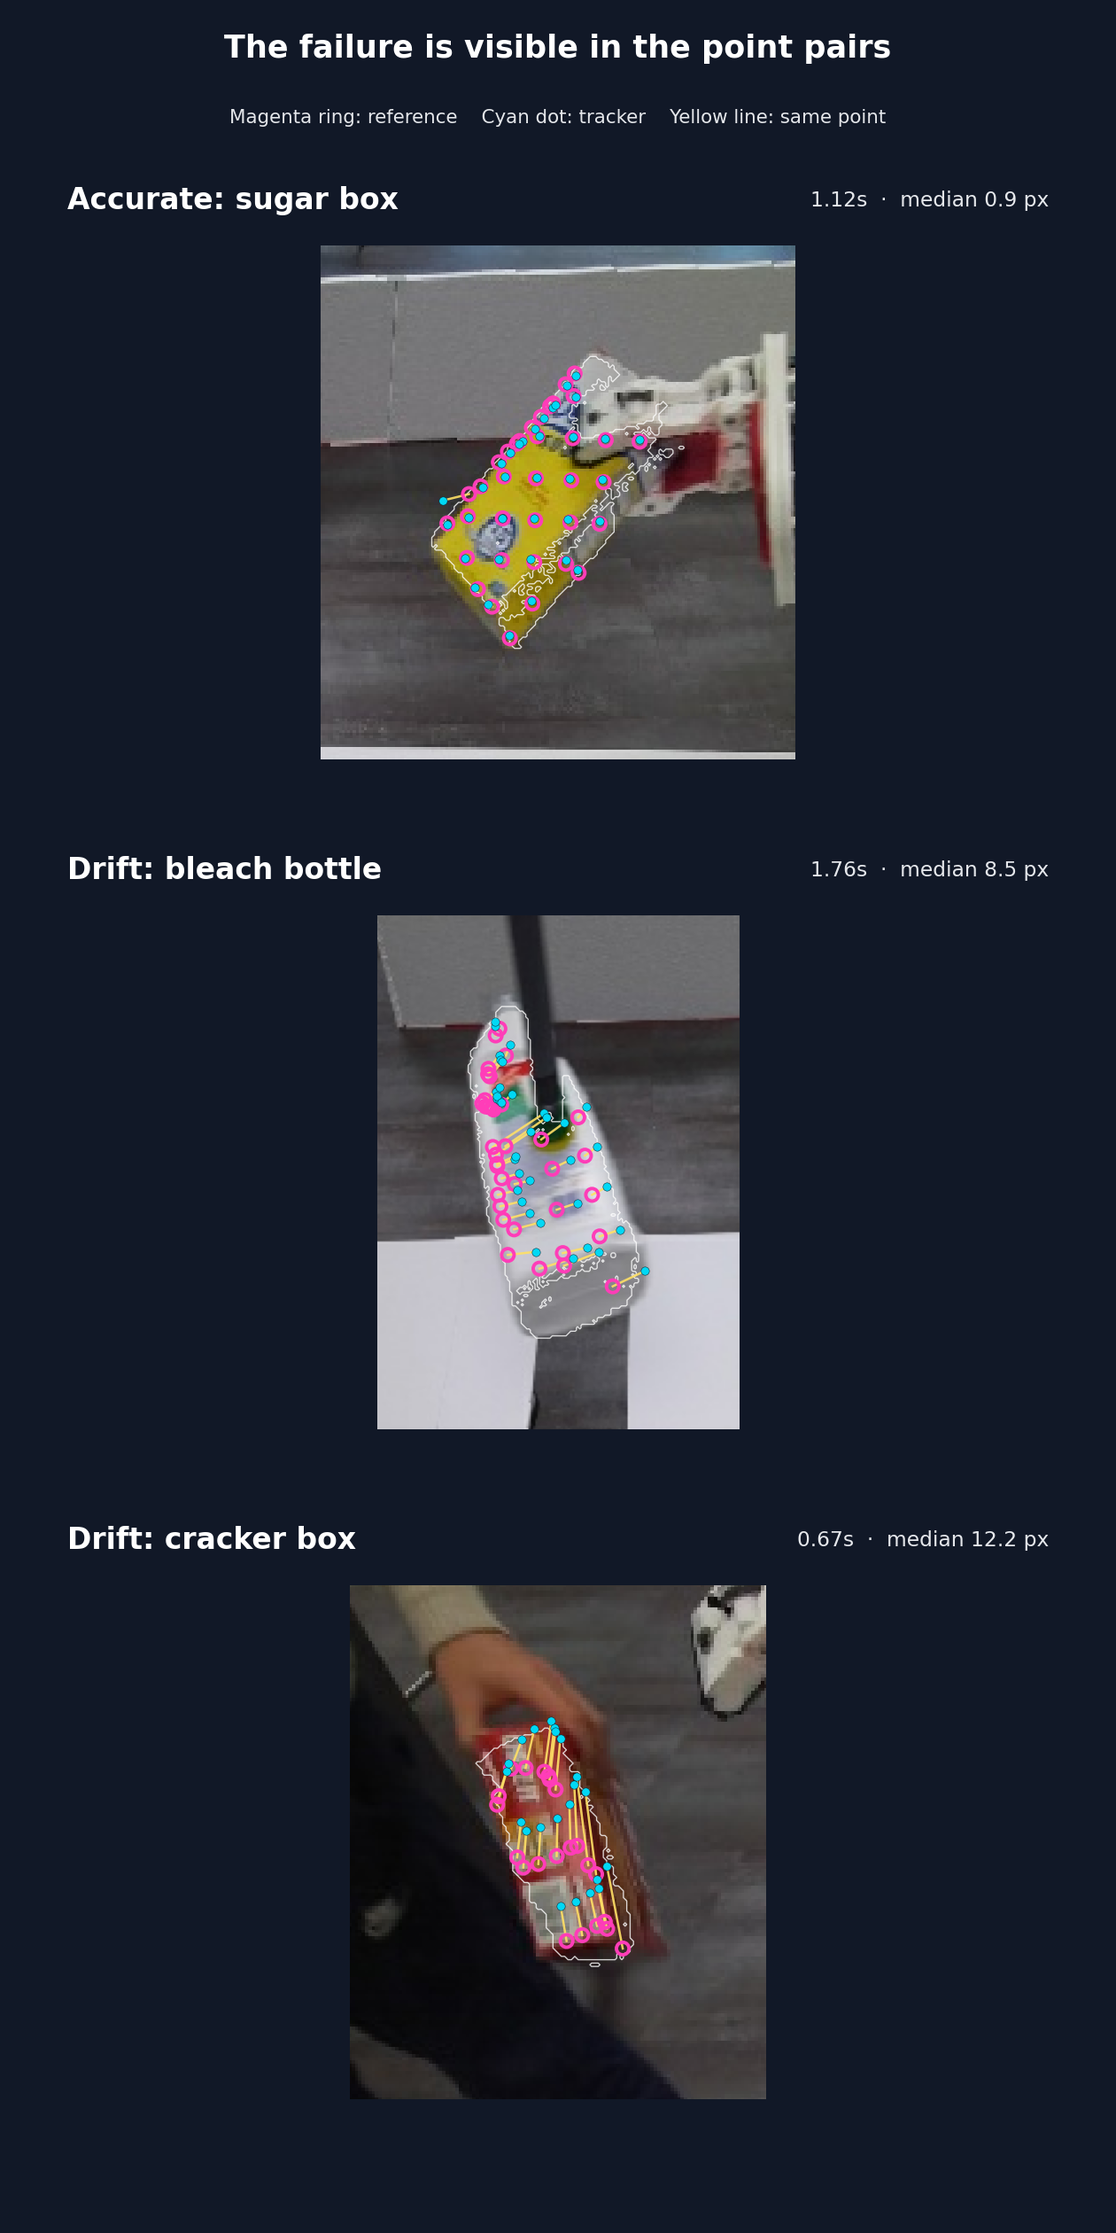
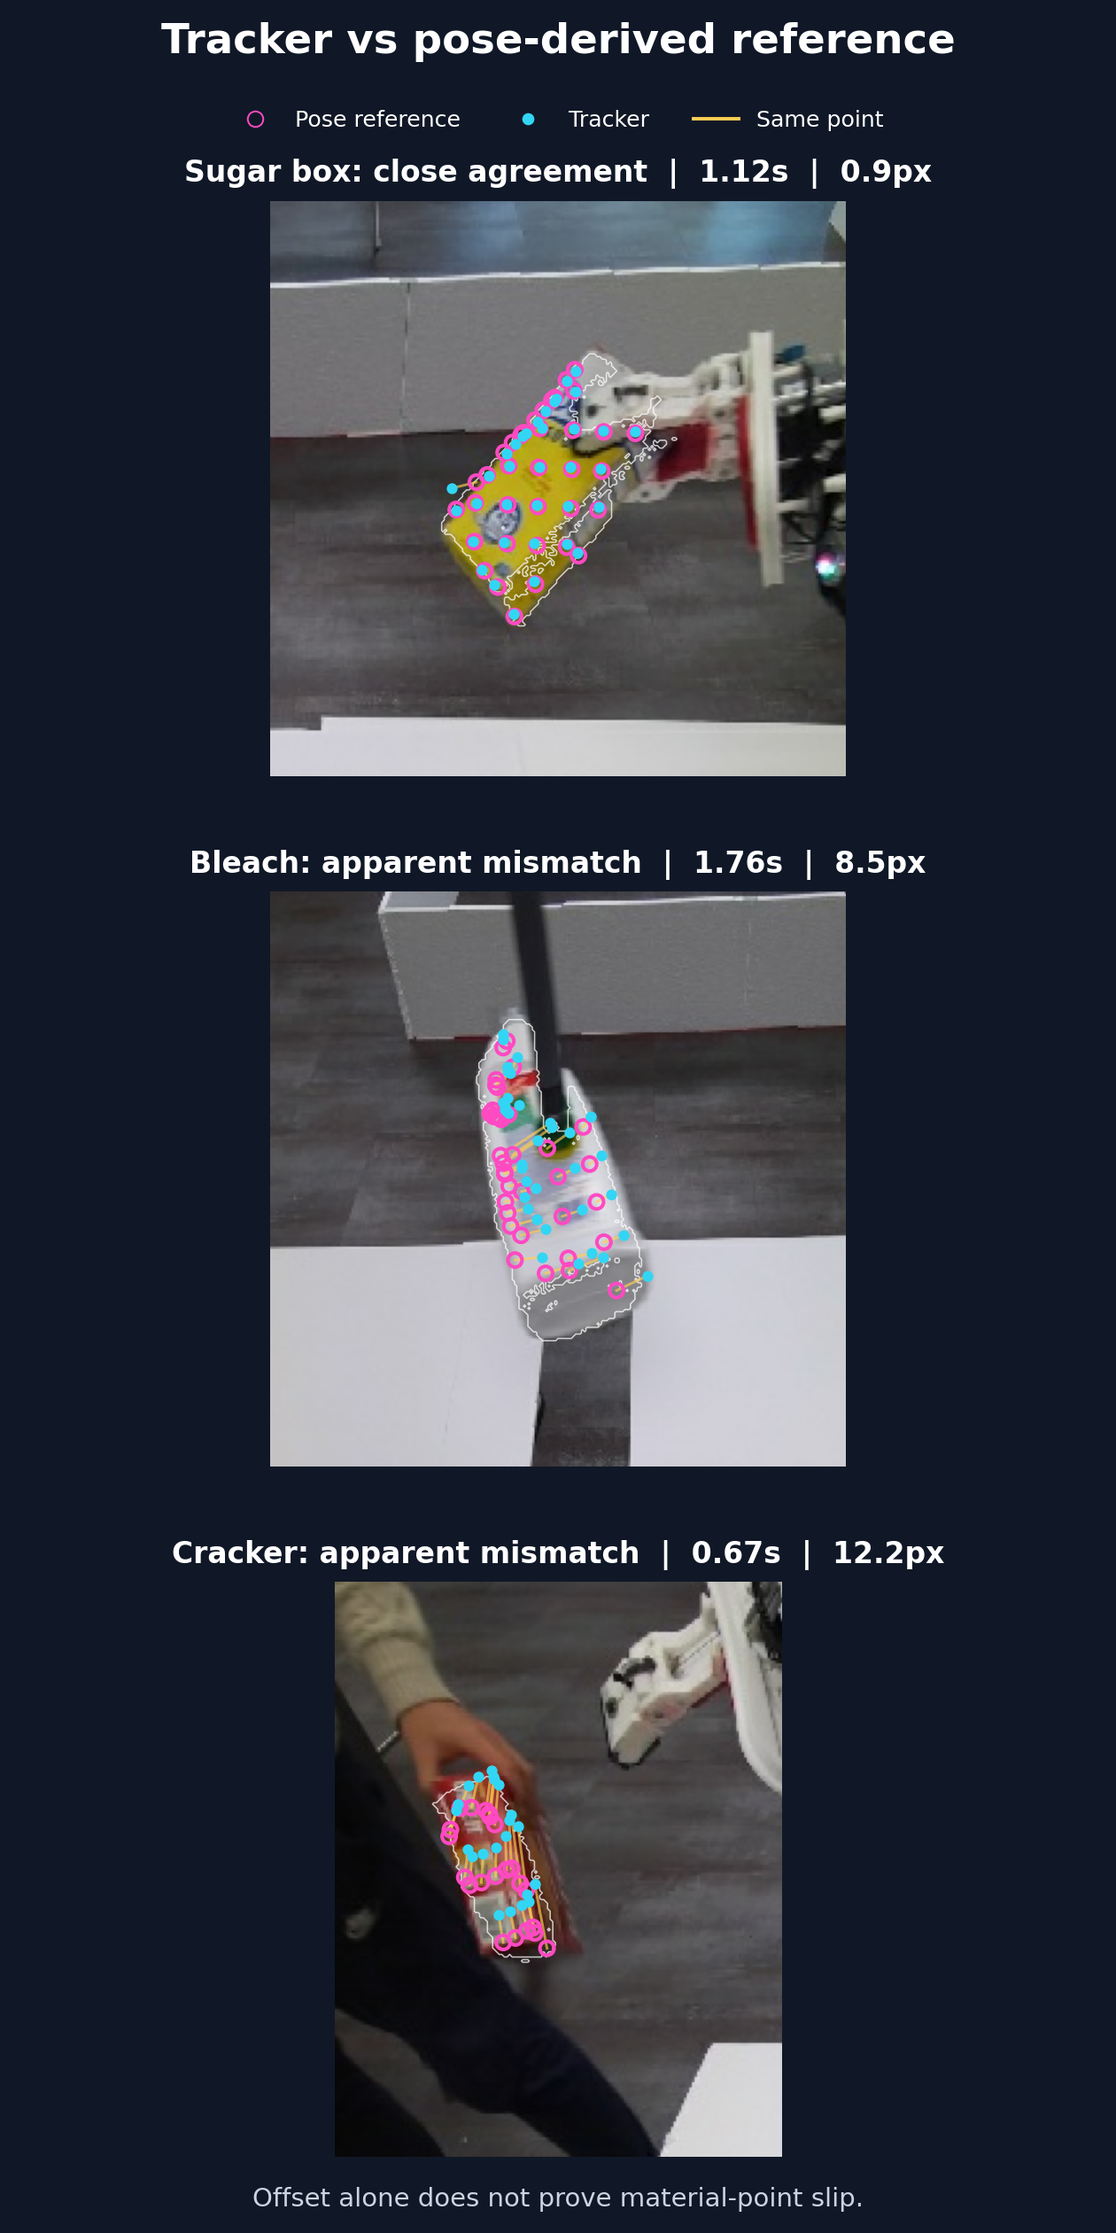
Qualify tracker failures against pose-derived references

Changed region(s): [[0.0619, 0.0, 0.8667, 0.9905], [0.0619, 0.681, 0.1238, 0.7119]]

diff --git a/docs/proofs/flash-visible-surface-benchmark/README.md b/docs/proofs/flash-visible-surface-benchmark/README.md
@@ -1,10 +1,10 @@
 # Visible-surface benchmark: first implementation
 
-This is a **development pilot**, not a decision to replace FLASH's tracker. The benchmark compares point identity before any SAM/depth/rigid-fit correction. Six 31-frame YCBInEOAT development clips and six frozen same-dataset holdout clips use pose-derived material-point references; the local 91-frame dowel rotation has no independent point labels and is visual/diagnostic evidence only. All adapters receive the same source image frames and query pixels for a clip. RGB-D candidates also receive the same aligned depth and intrinsics; RGB-only Point4D predicts its own geometry.
+This is a **development pilot**, not a decision to replace FLASH's tracker. It compares raw point predictions before any SAM/depth/rigid-fit correction. The YCBInEOAT references are projected from first-frame depth and the dataset's annotated object poses; they are **not independently annotated material-point tracks**, and pose errors can look like point-tracker drift. The local 91-frame dowel rotation has no independent point labels and is visual/diagnostic evidence only. All adapters receive the same source image frames and query pixels for a clip. RGB-D candidates also receive the same aligned depth and intrinsics; RGB-only Point4D predicts its own geometry.
 
-[Labelled mustard comparison](mustard_cotracker3_labeled.mp4) shows model points in cyan and independent pose-derived reference points in magenta. [Dowel rotation comparison](dowel_cotracker3_comparison.mp4) shows the complete 91-frame interval, including lost and drifting points. The [earlier point-frontends comparison](dowel_comparison.mp4) retains BootsTAPIR and optical flow. The thin white outline is the segmentation mask; staying inside it does **not** prove point identity.
+[Labelled mustard comparison](mustard_cotracker3_labeled.mp4) shows model points in cyan and pose-derived reference points in magenta. [Dowel rotation comparison](dowel_cotracker3_comparison.mp4) shows the complete 91-frame interval, including lost and apparently drifting points. The [earlier point-frontends comparison](dowel_comparison.mp4) retains BootsTAPIR and optical flow. The thin white outline is the segmentation mask; staying inside it does **not** prove point identity.
 
-The [phone-sized comparison video](visible_surface_phone_comparison.mp4) shows all ten point-tracker families across the moving YCBInEOAT sugar box, cracker box and hard bleach clips, followed by the local held dowel, moving yellow block and held gamepad. Three methods share each image time and query set. Magenta rings are independently labelled material-point locations on YCBInEOAT; cyan dots are raw tracker predictions. The local robot clips have no independent point labels and are explicitly visual diagnostics. The closing chart summarizes causal 2-pixel coverage on the two synthetic LSFOdyssey clips without redistributing their source imagery. Per-panel FPS is isolated adapter throughput, not FLASH's fresh-pose or motor-loop rate; full-clip methods may use future frames. The 27-second portrait MP4 is H.264/yuv420p with fast-start metadata for mobile playback.
+The [phone-sized comparison video](visible_surface_phone_comparison.mp4) shows all ten point-tracker families across the moving YCBInEOAT sugar box, cracker box and hard bleach clips, followed by the local held dowel, moving yellow block and held gamepad. Three methods share each image time and query set. Magenta rings on YCBInEOAT are **pose-derived reference projections**, not independently labelled material points; cyan dots are raw tracker predictions. The local robot clips have no independent point labels and are explicitly visual diagnostics. The closing chart summarizes causal 2-pixel coverage on the two synthetic LSFOdyssey clips without redistributing their source imagery. Per-panel FPS is isolated adapter throughput, not FLASH's fresh-pose or motor-loop rate; full-clip methods may use future frames. The 27-second portrait MP4 is H.264/yuv420p with fast-start metadata for mobile playback.
 
 [![Portrait comparison preview](visible_surface_phone_poster.jpg)](visible_surface_phone_comparison.mp4)
 
@@ -14,9 +14,9 @@ A separate [integrated timing probe](INTEGRATED.md) runs TAPNext with no mask, w
 
 The [nested point-budget sweep](NESTED_BUDGET.md) keeps the same initial 64 material points while tracking 64, 256 or 1,024 points on a labelled moving sugar-box clip. TAPNext's adapter rate falls from 56 to 45 fps, LiteTracker's from 64 to 53 fps, and Track-On-R's from 34 to 20 fps at 1,024 points. This is isolated all-frame inference, not the full perception rate. The first-64 accuracy columns prevent newly sampled, easier points from being mistaken for an improvement to old identities; the result is one visible object, not a point-budget recommendation.
 
-Three unused YCBInEOAT sequences have a [frozen midpoint holdout](HOLDOUT_MIDPOINT.md) and a separately frozen [motion-stratified holdout](HOLDOUT_MOTION.md); [the selection rule and source/query hashes](HOLDOUT_SPEC.md) were committed before motion-clip model scoring. The midpoint intervals contain little motion on two sequences, so their high scores are not strong evidence for moving-surface identity. On the motion intervals, mean 2-pixel coverage across the three sequences ranges from 0.104 to 0.526 across the final adapters; Point4D is the 0.104 RGB-only case. The [quality versus isolated throughput plot](motion_quality_vs_rate.png) separates causal from full-clip methods. The [moving bleach](holdout_bleach_motion.mp4), [moving cracker box](holdout_cracker_motion.mp4) and [Point4D comparison](holdout_bleach_point4d.mp4) videos show full intervals and reference points. These are internal holdouts from the same dataset, with only 29–64% of point-frames independently eligible on each moving clip. SpaTrackerV2's adapter was corrected using a source-frame contract check on this holdout, so its result is exploratory, not an untouched confirmation.
+Three unused YCBInEOAT sequences have a [frozen midpoint holdout](HOLDOUT_MIDPOINT.md) and a separately frozen [motion-stratified holdout](HOLDOUT_MOTION.md); [the selection rule and source/query hashes](HOLDOUT_SPEC.md) were committed before motion-clip model scoring. The midpoint intervals contain little motion on two sequences, so their high scores are not strong evidence for moving-surface identity. On the motion intervals, mean 2-pixel coverage against the pose-derived references ranges from 0.104 to 0.526 across the final adapters; Point4D is the 0.104 RGB-only case. The [quality versus isolated throughput plot](motion_quality_vs_rate.png) separates causal from full-clip methods. The [moving bleach](holdout_bleach_motion.mp4), [moving cracker box](holdout_cracker_motion.mp4) and [Point4D comparison](holdout_bleach_point4d.mp4) videos show full intervals and reference points. These are internal holdouts from the same dataset, with only 29–64% of point-frames eligible under the pose/mask/depth gate on each moving clip. SpaTrackerV2's adapter was corrected using a source-frame contract check on this holdout, so its result is exploratory, not an untouched confirmation.
 
-The [failure-frame comparison](failure_examples.png) shows TAPNext predictions paired with pose-derived reference points, using only points labelled visible at that instant. The sugar-box frame has 0.9 px median error; the bleach and cracker-box frames reach 8.5 and 12.2 px. Bleach still has 32 of 36 paired predictions inside the annotated object mask, yet its fitted cloud is 14 mm from the annotated motion. Cracker has 16 of 22 inside and a 28 mm fitted-cloud error. The error later falls to 3.2 px for bleach and 2.6 px for cracker, so the failures include transient within-object drift and some boundary leakage, not permanent loss of every point. The white outline is the dataset's annotated mask, not a live SAM prediction; this comparison does not isolate motion blur, occlusion, timing, or reference error as the cause.
+The [large-mismatch frames](failure_examples.png) show TAPNext predictions paired with pose-derived reference points, using only points eligible under the pose/mask/depth gate at that instant. The sugar-box frame has 0.9 px median disagreement; the bleach and cracker-box frames have 8.5 and 12.2 px. These are **disagreements with annotated object motion, not proven material-point errors**. A [one-step RGB-motion audit](REFERENCE_AUDIT.md) found that, on the worst bleach transition, TAPNext and optical flow agree within 0.42 px median while the pose-derived reference moves about 7 px differently. A similar reference jump occurs on the cracker box. This makes local reference-pose inconsistency a plausible major contributor. Some points also lie outside the annotated mask, but the image alone cannot distinguish tracker slip from reference error, occlusion and boundary uncertainty. The white outline is the dataset's annotated mask, not a live SAM prediction.
 
 A [second RGB-D source](DEXYCB.md) uses TAPIP3D's bundled 72-frame DexYCB sample with the same manually supplied first-frame mug seeds for all adapters. The [full unlabelled mug video](dexycb_mug_unlabelled.mp4) includes its heavy hand occlusion; a [second view](dexycb_mug_new_candidates.mp4) includes Point4D and SpaTrackerV2. This sample has no material-point labels or source timestamps, so it contributes visual evidence and adapter cost only. On it, TrackEverything's full-clip adapter measured 2.6 fps; LiteTracker and Track-On-R causal adapters measured 87.8 and 40.6 fps; SpaTrackerV2 and Point4D's full-clip adapters measured 7.9 and 18.4 fps. The declared 30 fps playback rate is not a measured camera rate.
 
@@ -32,7 +32,7 @@ Point4D was run with its official long-video API and full 5.4 GiB checkpoint. Th
 
 The first visual comparison exposed an adapter error: BootsTAPIR scaled queries using its default 640-pixel width before its `initialize` call learned the 848-pixel dowel camera width. Its initial median offset was 72.9 pixels. Passing the actual image dimensions before query creation reduced that offset to 1.2 pixels. All reported BootsTAPIR runs were regenerated after this correction. This is why an input/output contract check and a source-frame image review are required before comparing model quality.
 
-Reference limitations remain material. YCBInEOAT's annotated object pose transports a point seeded from the _measured_ first-frame depth; the reference point often differs from later measured depth by several millimetres. Its mask/depth visibility gate excludes unsupported points, but it does not make those labels submillimetre truth. The six development clips were chosen while adapters were built; the three midpoint and three motion intervals were frozen later from unused sequences in the **same** dataset. The one-third-second startup in the paced neural runs mostly reflects first-frame model warmup; after that they keep up with the 30 Hz local source in this short probe. These observations do not establish full-loop performance or reliability through occlusion.
+Reference limitations remain material. YCBInEOAT's annotated object pose transports a point seeded from the _measured_ first-frame depth; the reference point often differs from later measured depth by several millimetres. Its mask/depth visibility gate excludes unsupported points, but it does not validate point identity or correct local pose-label jumps. Consequently, the YCBInEOAT 2-pixel scores measure agreement with that constructed reference and cannot by themselves rank true material-point accuracy. The six development clips were chosen while adapters were built; the three midpoint and three motion intervals were frozen later from unused sequences in the **same** dataset. The one-third-second startup in the paced neural runs mostly reflects first-frame model warmup; after that they keep up with the 30 Hz local source in this short probe. These observations do not establish full-loop performance or reliability through occlusion.
 
 TAPIP3D's upstream depth-edge filter cost a median 6.45 seconds per 31-frame public clip. Across those six clips, removing it changed mean 2-pixel coverage by less than 0.001 and mean 5-mm coverage by 0.002, while median adapter throughput rose from 4.1 to 30.8 fps. On the 91-frame local dowel, filtering took 19.47 seconds and changed the mask-and-depth diagnostic by about 0.002; that diagnostic cannot prove material-point accuracy. This is a strong reason to keep the filter optional in the experiment, not yet proof that it is unnecessary on unseen sensor defects.
 
@@ -40,6 +40,6 @@ The exact-motion controls show the benchmark can detect texture dependence witho
 
 In the growth study, new queries are supplied from labelled masks rather than discovered autonomously. The first 64 points' mean 2-pixel coverage stays within 0.007 when later cohorts are added across the six development clips. The later cohorts have different visible surfaces and shorter lives, so their higher scores do not prove recovery of old identities. BootsTAPIR's median steady tracker time rises from about 15 to 27 ms after growth, while LiteTracker stays near 5 ms, TAPNext near 8 ms and Track-On-R below 19 ms. TAPIP3D's unfiltered full-clip adapter drops from about 31 to 20 fps with the larger query set. This identifies a point-budget cost, not a complete live perception rate.
 
-Run the tools from the repo root. `prepare-local` freezes source indices, queries, intrinsics and first-frame hashes; `flash_surface_ycbineoat` adds pose-derived labels. Adapters save the same `prediction.npz` fields (`frames`, `queries`, `xy`, `xyz`, `visible`, source type), per-stage timing and optional paced publication traces. `flash_surface_benchmark evaluate` checks the recorded mask/depth as a **diagnostic**, and scores accuracy only when independent labels exist. `flash_surface_report` produces equal-clip summaries; `flash_surface_render` renders the full interval with source-time pacing. Model-specific Python environments and checkpoints remain outside git. Do not mix depth lifted from the predicted pixel with native model 3D depth as though their depth residuals were comparable.
+Run the tools from the repo root. `prepare-local` freezes source indices, queries, intrinsics and first-frame hashes; `flash_surface_ycbineoat` adds pose-derived references. Adapters save the same `prediction.npz` fields (`frames`, `queries`, `xy`, `xyz`, `visible`, source type), per-stage timing and optional paced publication traces. `flash_surface_benchmark evaluate` checks the recorded mask/depth as a **diagnostic** and scores disagreement when reference tracks exist; only the LSFOdyssey clips here supply independent point-identity labels. `flash_surface_report` produces equal-clip summaries; `flash_surface_render` renders the full interval with source-time pacing. Model-specific Python environments and checkpoints remain outside git. Do not mix depth lifted from the predicted pixel with native model 3D depth as though their depth residuals were comparable.
 
 The [candidate status](CANDIDATES.md) separates measured point frontends from complete pose systems and unmeasured RGB-D challengers. The full [protocol](../../../src/lerobot/policies/flash/docs/visible_surface_benchmark.md) still calls for independently labelled moving clips from a second **real sensor**, longer low-texture intervals, autonomous query growth and retirement, full-system candidate comparison, and integrated segmentation/robot-loop load. The current scores cannot choose a production tracker.

diff --git a/docs/proofs/flash-visible-surface-benchmark/REFERENCE_AUDIT.md b/docs/proofs/flash-visible-surface-benchmark/REFERENCE_AUDIT.md
@@ -1,0 +1,15 @@
+# Are the apparent point failures tracker slip?
+
+The moving YCBInEOAT clips **do not have independently annotated material-point tracks**. The benchmark seeds points from first-frame measured depth, transports them with the dataset's annotated per-frame object pose, and projects them into later RGB images ([reference builder](../../../benchmarks/flash_surface_ycbineoat.py)). Later masks and depth only decide whether each projected point is eligible; they do not check that the annotation follows the same image feature. Therefore an apparent point error can be caused by the tracker, the pose annotation, the depth seed, or image/pose alignment.
+
+To check the two frames previously called surface slip, I tracked each eligible reference pixel **one RGB frame forward** with OpenCV pyramidal Lucas–Kanade optical flow (`winSize=(21,21)`, `maxLevel=3`). I retained only points eligible and predicted visible in both frames with a forward–backward flow error below 1 px. The table gives medians over those same retained points. A difference compares displacement **vectors** per point, not just their magnitudes.
+
+| Moving holdout transition                     | Points | RGB flow motion | TAPNext motion | Pose-reference motion | Flow–TAPNext difference | Flow–reference difference |
+| --------------------------------------------- | -----: | --------------: | -------------: | --------------------: | ----------------------: | ------------------------: |
+| Bleach, local frames 26→27 (1.70→1.76 s)      |     28 |         7.40 px |        7.57 px |               1.44 px |                 0.42 px |                   7.01 px |
+| Cracker box, local frames 15→16 (0.51→0.53 s) |      6 |         0.84 px |        0.75 px |               7.70 px |                 0.42 px |                   7.37 px |
+| Sugar box, local frames 19→20 (control)       |     30 |         2.32 px |        2.49 px |               3.36 px |                 0.26 px |                   1.11 px |
+
+At these two hard transitions, the image flow and TAPNext move together while the pose-derived reference jumps relative to them. Several other trackers make a similar displacement on the bleach transition. This is **strong evidence that local reference inconsistency contributes to the measured mismatch**, not proof that TAPNext kept the exact same material points. Lucas–Kanade can also follow the wrong patch on a smooth or occluded surface; the small cracker sample especially needs caution. A ±1-frame reference-shift check did not reveal a consistent global offset across the clips, so the evidence points more toward local pose annotation error than a universal timestamp shift. The previously reported 8.5/12.2 px mismatch frames and later apparent recovery cannot be labelled confirmed tracker slip from this reference alone.
+
+The [exact-motion smooth/textured control](SYNTHETIC.md) does isolate one real factor: TAPNext 2-px coverage drops from 0.995 on the textured rotating plane to 0.699 on the otherwise identical smooth plane, and Lucas–Kanade drops from 0.996 to 0.378. Weak texture can make material-point tracking ambiguous. The cracker clip is also partly hand-occluded. Neither observation apportions the actual errors on these two real transitions among texture, occlusion and annotation. Independent material-point labels or trusted synchronized pose measurements on a real smooth-object clip are needed before ranking trackers for FLASH by their YCBInEOAT 2-px scores.
